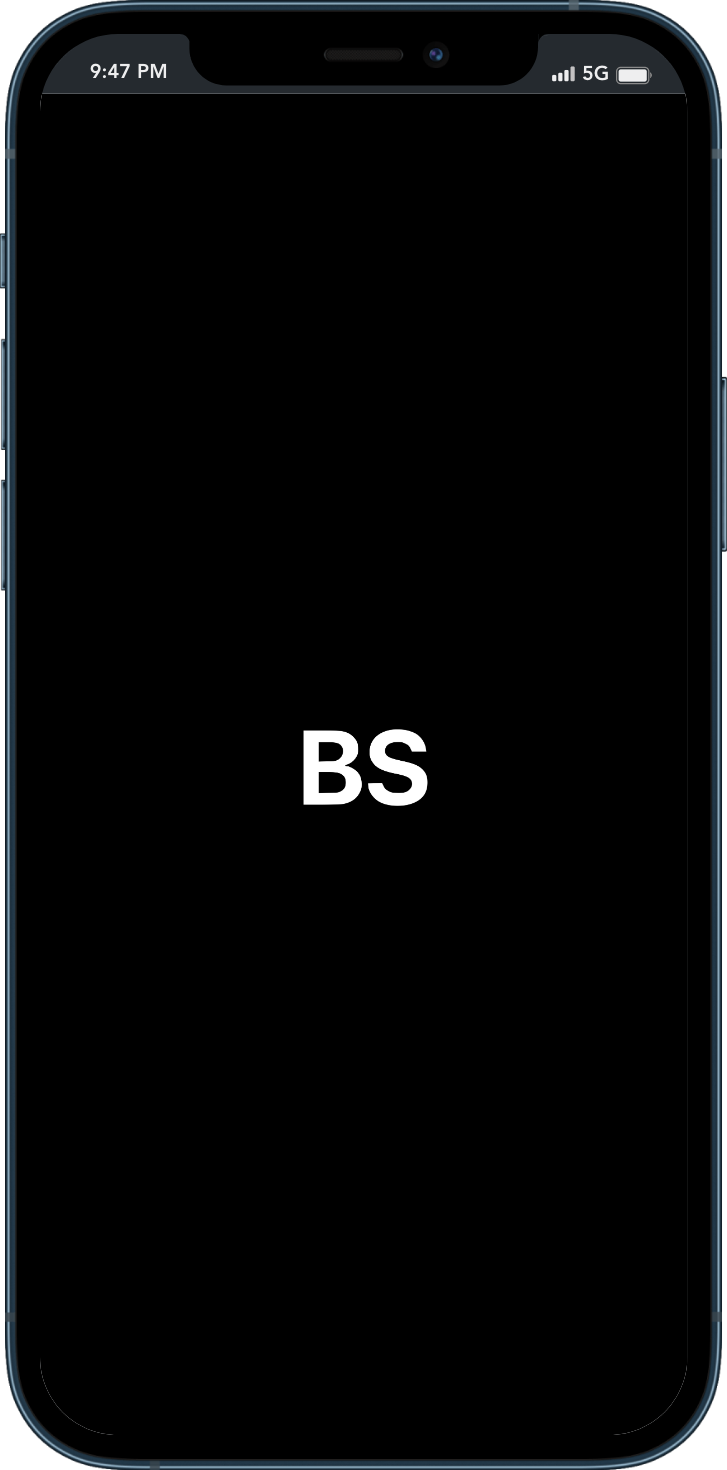
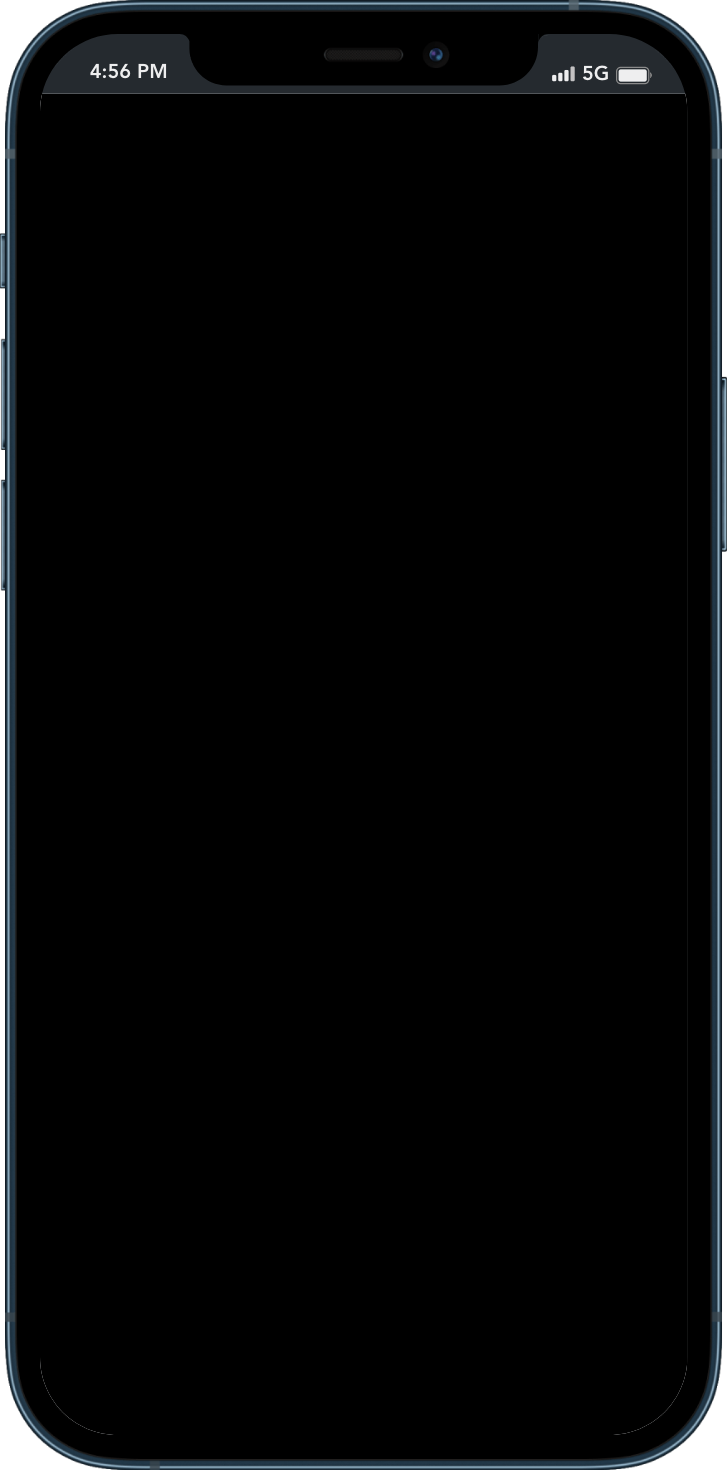
Some changes have been made.

Changed region(s): [[0.3934, 0.4898, 0.6052, 0.551], [0.121, 0.0306, 0.1816, 0.0612]]

diff --git a/src/pages/components/sections/UserSection.tsx b/src/pages/components/sections/UserSection.tsx
@@ -18,24 +18,19 @@ export default function UserSection() {
         titleName="crafting"
       />
       <GeneralTitle
-        title="Rewards as Unique as Your Engagement"
-        description="Your data is valuable, and we believe you should be rewarded for it. Every swipe, every interaction, every preference - they all contribute to a dynamic tapestry that makes your digital world unique. As a token of our appreciation, we reward you with monthly crypto payments. Your engagement is your asset, and we want you to share in the success you help create."
-        titleName="rewards"
-      />
-      <GeneralTitle
         title="Seamless Flexibility for Your Preferences"
         description="Change is the only constant, and your preferences are no exception. Feel free to switch providers whenever you desire. Your journey is your own, and we're here to empower your choices."
         titleName="seamless"
       />
       <GeneralTitle
+        title="Rewards as Unique as Your Engagement"
+        description="Your data is valuable, and we believe you should be rewarded for it. Every swipe, every interaction, every preference - they all contribute to a dynamic tapestry that makes your digital world unique. As a token of our appreciation, we reward you with monthly crypto payments. Your engagement is your asset, and we want you to share in the success you help create."
+        titleName="rewards"
+      />
+      <GeneralTitle
         title="Elevate the Platform with Your Voice"
         description="We're not just transforming the way you consume content; we're revolutionizing the way you express satisfaction. Rate your providers, let your voice be heard, and foster a community of excellence. Your feedback drives us, your fellow users, and the providers to elevate the platform to new heights."
         titleName="elevate"
-      />
-      <GeneralTitle
-        title="Become the Platform"
-        description="Welcome to a new era of social media, where you're not just a user - you're a curator, a benefactor, and a beacon of change. Join us today and embark on a journey where you're not just a part of the platform; you are the platform."
-        titleName="become"
       />
     </Flex>
   );

diff --git a/src/pages/components/phoneMockup/PhoneMockUp.tsx b/src/pages/components/phoneMockup/PhoneMockUp.tsx
@@ -1,5 +1,6 @@
 import { titleNamesStateAtom } from "@/atoms/sectionNumberStateAtom";
-import { Box, Image } from "@chakra-ui/react";
+import { Box, Flex, Image } from "@chakra-ui/react";
+import { useEffect } from "react";
 import { useInView } from "react-intersection-observer";
 import { useRecoilValue } from "recoil";
 
@@ -17,7 +18,6 @@ export default function PhoneMockUp() {
     "rewards",
     "seamless",
     "elevate",
-    "become",
     "unlock",
     "elevateYour",
     "seize",
@@ -32,33 +32,41 @@ export default function PhoneMockUp() {
     "yourMonetization",
   ];
 
+  useEffect(() => {
+    console.log(titleNameState);
+  }, [titleNameState]);
+
   return (
     <>
       {images.map((n, i) => (
-        <Box
-          display="flex"
-          justifyContent="center"
-          alignItems="center"
+        <Flex
           transform="auto"
-          translateX={phoneMockUpInView ? "130px" : "-200px"}
-          transition="transform 1s ease-in-out"
-          position="fixed"
-          right="10"
-          top="10"
+          translateX={
+            titleNameState === "theNext"
+              ? "-25rem"
+              : phoneMockUpInView
+              ? "130px"
+              : "-200px"
+          }
+          transition="all 1s ease-in-out"
+          rotate={titleNameState === "theNext" ? "90deg" : "0deg"}
+          scale={titleNameState === "theNext" ? "1.5" : "1"}
           userSelect="none"
           pointerEvents="none"
           ref={phoneMockUpRef}
           key={i}
+          opacity={titleNameState === n ? 1 : 0}
+          position="fixed"
+          right="10"
+          top="10"
         >
           <Image
             src={`/images/${n}.png`}
             alt={n}
             objectFit="contain"
             boxSize="3xl"
-            transition="opacity 1s ease-in-out"
-            opacity={titleNameState !== n ? 0 : 1}
           />
-        </Box>
+        </Flex>
       ))}
     </>
   );

diff --git a/src/pages/components/sections/WelcomeSection.tsx b/src/pages/components/sections/WelcomeSection.tsx
@@ -1,0 +1,56 @@
+import { titleNamesStateAtom } from "@/atoms/sectionNumberStateAtom";
+import { Flex, Text } from "@chakra-ui/react";
+import { useEffect } from "react";
+import { useInView } from "react-intersection-observer";
+import { useSetRecoilState } from "recoil";
+
+export default function WelcomeSection() {
+  const [generalTitleRef, generalTitleInView] = useInView({
+    triggerOnce: false,
+  });
+  const setTitleNameState = useSetRecoilState(titleNamesStateAtom);
+  useEffect(() => {
+    if (generalTitleInView) {
+      setTitleNameState("theNext");
+    }
+  }, [generalTitleInView]);
+
+  return (
+    <>
+      <Flex direction="column" justify="center" align="center" height="100vh" gap="5">
+        <Text
+          fontWeight="extrabold"
+          lineHeight="normal"
+          fontSize="7xl"
+          bgGradient="linear(to-l, #e4e4d9, #215f00)"
+          bgClip="text"
+          id="main-title"
+          textAlign="center"
+          _selection={{
+            backgroundColor: "green",
+            color: "white",
+          }}
+          ref={generalTitleRef}
+        >
+          The Next Generation Social Media
+        </Text>
+        <Text
+          color="gray.500"
+          fontSize="1xl"
+          id="description"
+          textAlign="center"
+          maxWidth="55rem"
+          lineHeight="normal"
+          _selection={{
+            backgroundColor: "white",
+            color: "black",
+          }}
+        >
+          The magnificent platform enables users to select their algorithms,
+          create NFTs that are marketable, and additionally welcomes algorithm
+          creators to participate and generate income.
+        </Text>
+      </Flex>
+    </>
+  );
+}

diff --git a/src/pages/index.tsx b/src/pages/index.tsx
@@ -3,30 +3,30 @@ import { Flex } from "@chakra-ui/react";
 import GeneralTitle from "./components/generalTitles/GeneralTitle";
 import PhoneMockUp from "./components/phoneMockup/PhoneMockUp";
 import NFTSection from "./components/sections/NFTSection";
-import UserSection from "./components/sections/UserSection";
 import ProviderSection from "./components/sections/ProviderSection";
+import UserSection from "./components/sections/UserSection";
+import WelcomeSection from "./components/sections/WelcomeSection";
+import { useEffect } from "react";
 
 export default function Home() {
+  useEffect(() => {
+    window.scrollTo(0, 0);
+  }, []);
+
   return (
     <>
       <PhoneMockUp />
-      <Flex
-        justify="center"
-        id="root-component"
-        width="100%"
-        direction="column"
-      >
-        <GeneralTitle
-          title="The Next Generation Social Media"
-          description=" The magnificent platform enables users to select their algorithms,
-   create NFTs that are marketable, and additionally welcomes algorithm
-   creators to participate and generate income."
-          titleName="theNext"
-        />
-        <UserSection />
-        <NFTSection />
-        <ProviderSection />
-      </Flex>
+
+      <GeneralTitle
+        title="The Next Generation Social Media"
+        description="The magnificent platform enables users to select their algorithms,
+        create NFTs that are marketable, and additionally welcomes algorithm
+        creators to participate and generate income."
+        titleName="theNext"
+      />
+      <UserSection />
+      <NFTSection />
+      <ProviderSection />
     </>
   );
 }

diff --git a/src/pages/components/generalTitles/GeneralTitle.tsx b/src/pages/components/generalTitles/GeneralTitle.tsx
@@ -30,13 +30,15 @@ export default function GeneralTitle({ title, description, titleName }: Props) {
       id={`generalTitle-section-${titleName}`}
       direction="column"
       justify="center"
+
       gap="5"
       ml="20"
       height="100vh"
       maxWidth="40rem"
-      ref={generalTitleRef}
       transition="transform 1s ease-in-out"
-      transform={`scale(${generalTitleInView ? "1" : "0"})`}
+      transform="auto"
+      scale={generalTitleInView ? (titleName === "theNext" ? "1.1" : "1") : "0"}
+      translateX={titleName === "theNext" ? "20rem" : "0"}
     >
       <Text
         fontWeight="extrabold"
@@ -50,6 +52,7 @@ export default function GeneralTitle({ title, description, titleName }: Props) {
           backgroundColor: "green",
           color: "white",
         }}
+        ref={generalTitleRef}
       >
         {title}
       </Text>

diff --git a/src/atoms/sectionNumberStateAtom.ts b/src/atoms/sectionNumberStateAtom.ts
@@ -9,7 +9,6 @@ export type titleNames =
   | "rewards"
   | "seamless"
   | "elevate"
-  | "become"
   | "unlock"
   | "elevateYour"
   | "seize"
